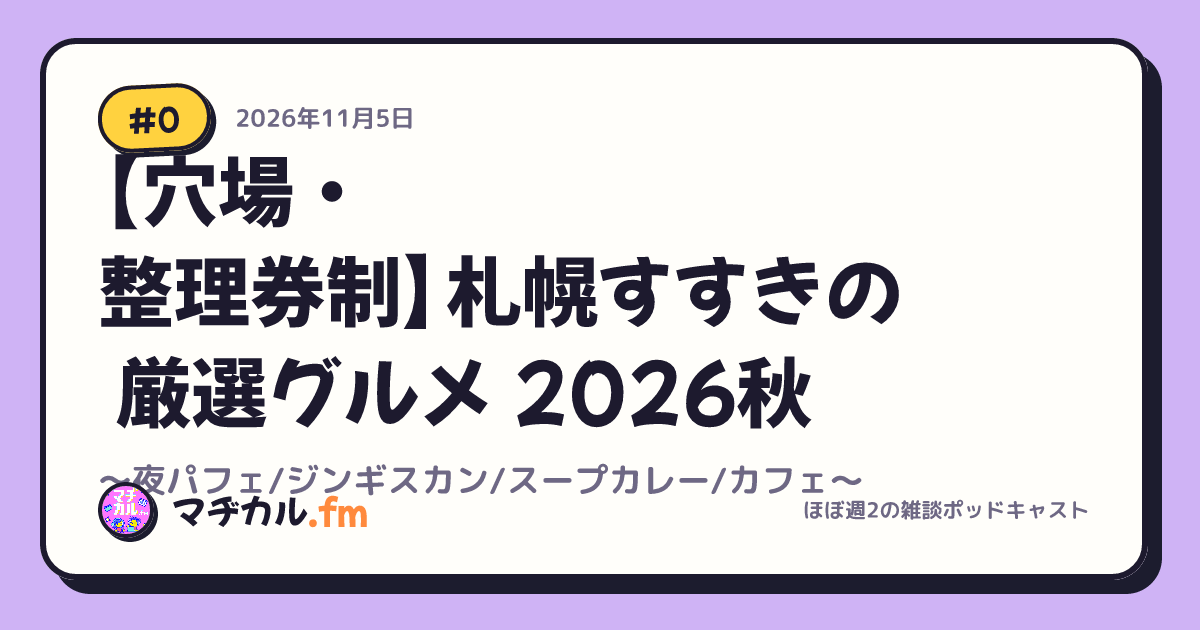
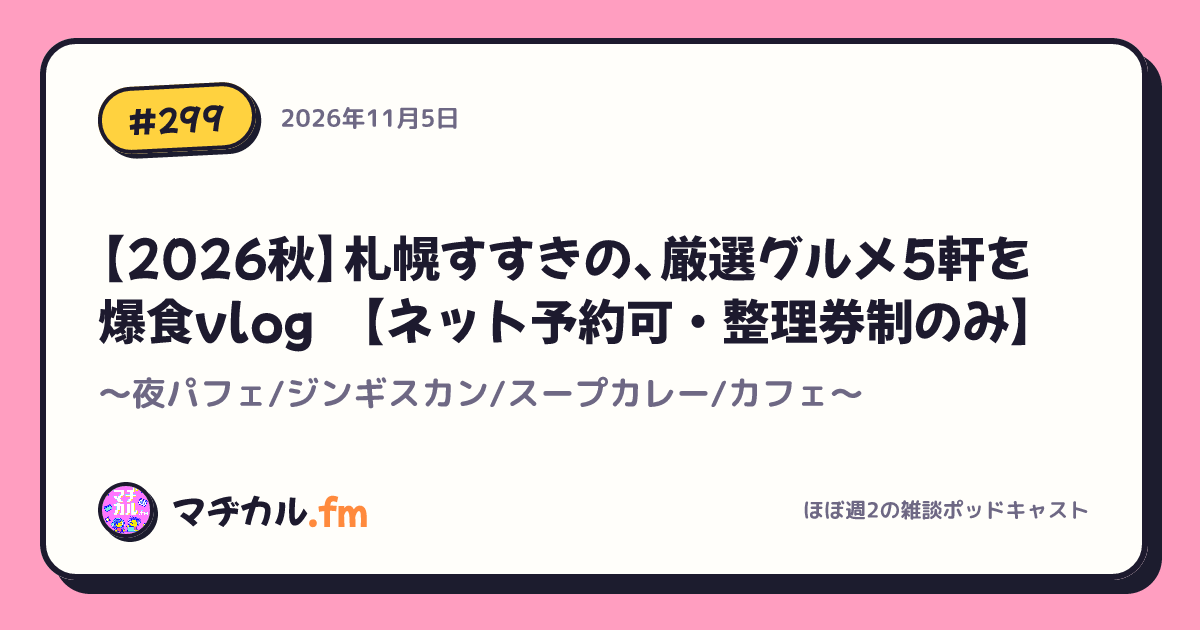
タイトルに番号がない回の話数を itunes:episode から取る
最近の回はタイトルに「#N:」を入れていないため話数が 0 になり、
OGP が「#0」になったり URL が LISTEN のスラッグの切れ端になったりしていた。
タイトル先頭の番号を優先し、なければ <itunes:episode> を使う。
番号が付いたことで変わった /ep/heisei・/ep/clinical は別名として残し、
canonical は正規URLに向ける。

diff --git a/scripts/fetch-episodes.js b/scripts/fetch-episodes.js
@@ -33,17 +33,31 @@ const parser = new Parser({
 	},
 });
 
-function extractEpisodeNumber(title) {
-	const match = title.match(/(\d+):/);
-	if (match) {
-		return Number.parseInt(match[1], 10);
+// 話数は「#263: 〜」のようなタイトル先頭の番号を優先する。
+// 最近はタイトルに番号を入れないので、その場合は <itunes:episode> から取る。
+// （古い回は itunes:episode がタイトルの番号とずれていることがあるため、タイトル優先）
+function extractEpisodeNumber(item) {
+	const titleMatch = (item.title ?? "").match(/^#?(\d+):/);
+	if (titleMatch) {
+		return Number.parseInt(titleMatch[1], 10);
 	}
-	return 0;
+	const itunesEpisode = Number.parseInt(
+		item.episode ?? item.itunes?.episode ?? "",
+		10,
+	);
+	return Number.isNaN(itunesEpisode) ? 0 : itunesEpisode;
+}
+
+// タイトル先頭の「#263: 」「263: 」を除いた本文
+function stripEpisodePrefix(title) {
+	return title.replace(/^#?\d+:\s*/, "").trim();
 }
 
 function extractListenId(content) {
 	if (!content) return null;
-	const match = content.match(/https:\/\/listen\.style\/p\/magicalfm\/([a-z0-9]+)/);
+	const match = content.match(
+		/https:\/\/listen\.style\/p\/magicalfm\/([a-z0-9]+)/,
+	);
 	return match ? match[1] : null;
 }
 
@@ -57,22 +71,19 @@ async function fetchAndSaveEpisodes() {
 		try {
 			const customPathsContent = await fs.readFile(
 				path.join(OUTPUT_DIR, CUSTOM_PATHS_FILE),
-				"utf-8"
+				"utf-8",
 			);
 			customPathsMap = JSON.parse(customPathsContent);
 		} catch (error) {
-			console.log("No custom paths file found, continuing without custom paths");
+			console.log(
+				"No custom paths file found, continuing without custom paths",
+			);
 		}
 
 		const episodes = feed.items.map((item) => {
-			const number = extractEpisodeNumber(item.title ?? "");
-			const titleContent =
-				item.title?.split(":").slice(1).join(":").trim() || item.title;
-			const title = item.title?.startsWith("#")
-				? item.title
-				: number === 0
-					? titleContent
-					: `#${number}: ${titleContent}`;
+			const number = extractEpisodeNumber(item);
+			const titleContent = stripEpisodePrefix(item.title ?? "");
+			const title = number === 0 ? titleContent : `#${number}: ${titleContent}`;
 
 			// Parse the date and validate it before formatting
 			const dateObj = new Date(item.pubDate ?? new Date());
@@ -81,11 +92,12 @@ async function fetchAndSaveEpisodes() {
 			// Extract LISTEN ID and check for custom path
 			const listenId = extractListenId(item.content ?? "");
 			// 優先順位: 1. 手動設定 (custom-paths.json) 2. 番号なしの場合はLISTEN ID 3. undefined
-			const customPath = listenId && customPathsMap[listenId]
-				? customPathsMap[listenId]
-				: (number === 0 && listenId)
-					? listenId
-					: undefined;
+			const customPath =
+				listenId && customPathsMap[listenId]
+					? customPathsMap[listenId]
+					: number === 0 && listenId
+						? listenId
+						: undefined;
 
 			const episode = {
 				title,

diff --git a/src/utils/rss.ts b/src/utils/rss.ts
@@ -1,7 +1,11 @@
 import { format, parseISO } from "date-fns";
 import { ja } from "date-fns/locale";
 import DOMPurify from "isomorphic-dompurify";
+import episodeAliases from "../data/episode-aliases.json";
 import episodesData from "../data/episodes.json";
+
+// 以前のURL（話数が取れていなかった頃の /ep/heisei など）→ 話数
+const aliasToNumber: Record<string, number> = episodeAliases;
 
 export interface Episode {
 	title: string;
@@ -121,6 +125,11 @@ export async function getEpisodeBySlug(slug: string): Promise<Episode | null> {
 	// First try to find by custom path
 	let episode = episodesData.find((ep) => ep.customPath === slug);
 
+	// 以前のURLも同じ回として扱う
+	if (!episode && Object.hasOwn(aliasToNumber, slug)) {
+		episode = episodesData.find((ep) => ep.number === aliasToNumber[slug]);
+	}
+
 	// If not found, try to parse as number
 	if (!episode) {
 		const number = Number.parseInt(slug);
@@ -173,5 +182,8 @@ export function toEpisodeListItem(episode: Episode) {
 }
 
 export async function getAllEpisodeSlugs(): Promise<string[]> {
-	return episodesData.map((episode) => getEpisodeSlug(episode));
+	return [
+		...episodesData.map((episode) => getEpisodeSlug(episode)),
+		...Object.keys(aliasToNumber),
+	];
 }

diff --git a/CLAUDE.md b/CLAUDE.md
@@ -20,7 +20,7 @@ bun scripts/generate-og.jsx --thumbnail 280 # 動画用サムネイル(16:9)を 
 
 ## アーキテクチャの要点
 
-- **データフロー**: GitHub Actions が `scripts/fetch-episodes.js` で RSS → `src/data/episodes.json` を更新 → 全ページ静的生成。エピソードURLは `src/data/custom-paths.json` の `customPath` が優先され、なければ話数
+- **データフロー**: GitHub Actions が `scripts/fetch-episodes.js` で RSS → `src/data/episodes.json` を更新 → 全ページ静的生成。エピソードURLは `src/data/custom-paths.json` の `customPath` が優先され、なければ話数。話数はタイトル先頭の `#N:` を優先し、なければ RSS の `<itunes:episode>`。URLが変わった回の旧URLは `src/data/episode-aliases.json` で残す（canonical は正規URL）
 - **`src/utils/rss.ts`** がエピソード取得の唯一の入口。表示用タイトルは `getEpisodeDisplayTitle()`（先頭の `#263:` を除去。話数は別途チップで表示するため）、一覧用の軽量データは `toEpisodeListItem()` を使う
 - **React island は4つだけ**（Header / EpisodeList / PlayButton / AudioPlayer）。静的にできるUIは Astro コンポーネントにする
 - **AudioPlayer は Layout.astro 内で `transition:persist`** しており、ページ遷移しても再生が途切れない。再生状態は `src/store/audioStore.ts`（zustand + localStorage）で共有され、EpisodeList / PlayButton は同じストアを見て再生中表示を同期する
